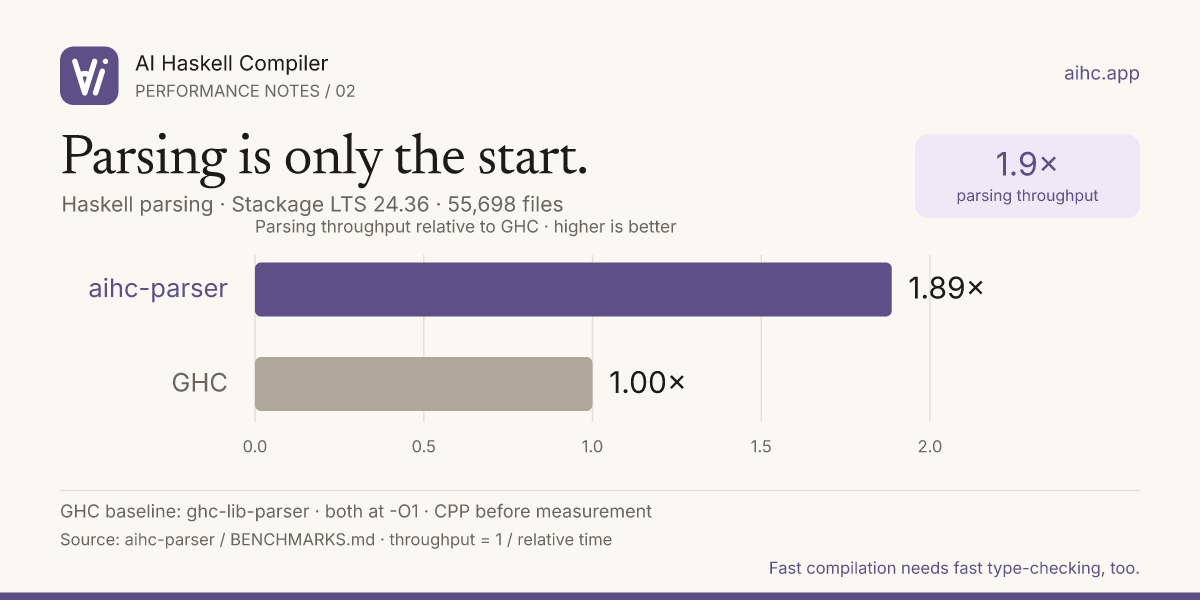
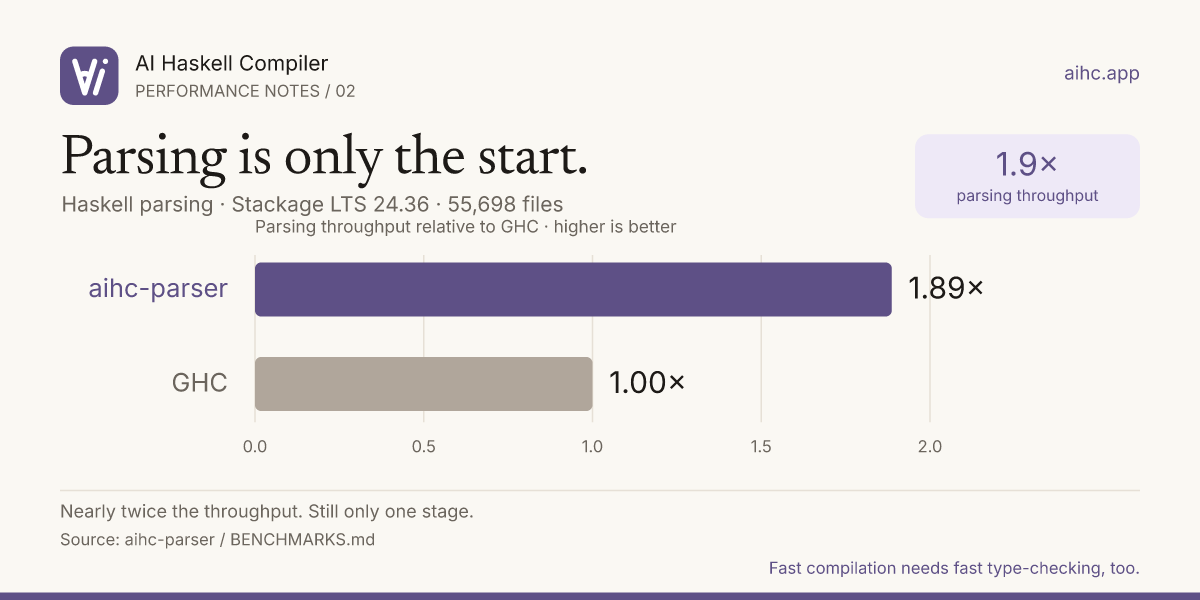
docs: trim parser benchmark methodology from post and images

Changed region(s): [[0.0308, 0.84, 0.555, 0.93]]

diff --git a/src/content/posts/2026-10-06-parsing-is-only-the-start.md b/src/content/posts/2026-10-06-parsing-is-only-the-start.md
@@ -10,11 +10,9 @@ imageWidth: 1200
 imageHeight: 600
 ---
 
-`aihc-parser` is nearly **2× as fast as GHC's parser** on our recorded Stackage benchmark. The parser is sprinting. The type-checker still has most of the track to itself.
+`aihc-parser` is nearly **2× as fast as GHC's parser** on our [Stackage benchmark](https://github.com/ai-haskell-compiler/aihc-parser/blob/d9bef4c93df67b253008dda878e2cefecc4dc569/BENCHMARKS.md). The parser is sprinting. The type-checker still has most of the track to itself.
 
-![Stackage parsing throughput relative to GHC: aihc-parser 1.89× versus GHC (ghc-lib-parser) 1.00×; higher is better. Derived from recorded relative parsing times, with both parsers at -O1 and CPP before measurement.](/images/aihc-parser-throughput.png)
-
-The [recorded benchmark](https://github.com/ai-haskell-compiler/aihc-parser/blob/d9bef4c93df67b253008dda878e2cefecc4dc569/BENCHMARKS.md) covers **55,698 Haskell files** across 3,412 packages in Stackage LTS 24.36. `aihc-parser` delivers **1.89× GHC's throughput**, with GHC measured through `ghc-lib-parser`. Both are built at Cabal's default `-O1`; `aihc-cpp` runs before measurement. The chart takes the reciprocal of the recorded relative parsing time, 0.53. These are parser measurements, not end-to-end compilation results.
+![Stackage parsing throughput relative to GHC: aihc-parser 1.89× versus GHC (ghc-lib-parser) 1.00×; higher is better.](/images/aihc-parser-throughput.png)
 
 We spend far more time type-checking than parsing, so Amdahl's law remains unimpressed. If parsing were 10% of a build, this speedup would shave off 4.7% overall. A nice saving. No coffee break cancelled. That 10% is an illustration, not a measured breakdown of AIHC.
 
